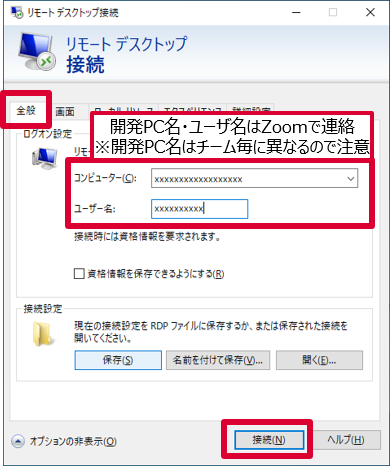
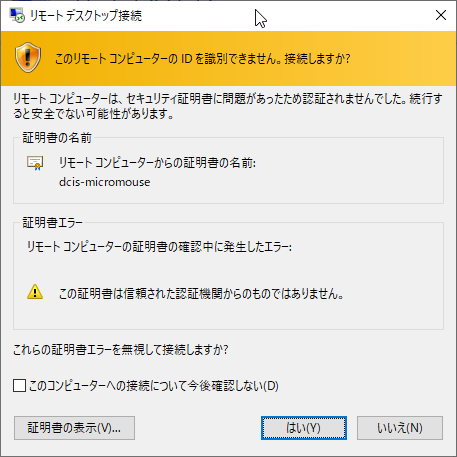
23夏をAzureで実施する向けに記述＆画像修正

diff --git a/doc/connection/connection.md b/doc/connection/connection.md
@@ -1,40 +1,12 @@
 # 接続手順書
 - [接続手順書](#接続手順書)
   - [開発用PCへ接続する](#開発用pcへ接続する)
-    - [証明書を設定する(windows)](#証明書を設定するwindows)
-    - [リモートデスクトップする(windows)](#リモートデスクトップするwindows)
-    - [証明書を設定する(mac)](#証明書を設定するmac)
-    - [リモートデスクトップする(mac)](#リモートデスクトップするmac)
   - [開発を始める](#開発を始める)
   - [開発用PC以外からプログラムや設計書を参照する(読み取り専用)](#開発用pc以外からプログラムや設計書を参照する読み取り専用)
 
 ## 開発用PCへ接続する
 <details>
 <summary>Windowsの人</summary>
-
-### 証明書を設定する(windows)
-* デンソークリエイト内にある開発用PCにアクセスするための証明書を皆さんのPCに登録します。
-
-1. 証明書をダウンロードします。  
-   __※証明書のダウンロードURLはZoomのチャットで連絡します。__
-1. ダウンロードしたファイルをダブルクリックして開きます。すると証明書の内容が表示されます。  
-   「証明書のインストール」をクリックします。  
-  ![証明書1](img/cert1.png)  
-1. 「次へ」をクリックします。  
-  ![証明書2](img/cert2.png)
-1. 「証明書をすべて次のストアに配置する」を選択し、「参照」をクリックします。  
-  ![証明書3](img/cert3.png)
-1. 「信頼されたルート証明機関」を選択し、「OK」をクリックします。  
-  ![証明書4](img/cert4.png)
-1. 「次へ」をクリックします。  
-  ![証明書5](img/cert5.png)
-1. 「完了」をクリックします。  
-  ![証明書6](img/cert6.png)
-1. 「OK」をクリックします。  
-  ![証明書7](img/cert7.png)
-  ![証明書8](img/cert8.png)
-
-### リモートデスクトップする(windows)
 
 1. 画面を共有しながら進めましょう。  
     接続に詰まった場合に画面を見せながら相談できます。
@@ -43,43 +15,28 @@
   ![リモートデスクトップ接続](img/remote.png)
 
 1. チームごとに、決められたコンピュータに対して接続します。  
-  まず、接続に必要な RD ゲートウェイ を設定します。  
-  「オプションの表示」をクリックします。  
-  ![リモートデスクトップ接続2](img/remote2.png)
-
-1. 「詳細設定」の「任意の場所から接続する」の枠の「設定」をクリックします。  
-   ![リモートデスクトップ接続2](img/remote3.png)
-
-1. 「次の RD ゲートウェイサーバー設定を使用する」にチェックを付け、  
-  「サーバー名」を以下の通り入力し、「OK」をクリックします。  
-    |項目|入力|
-    |-|-|
-    |サーバー名|__※サーバー名(=ゲートウェイ名)はZoomのチャットで連絡します。__|  
-
-    ![リモートデスクトップ接続2](img/remote4.png)
-
-1. 「全般」に戻り、  
-  「コンピューター」と「ユーザー名」を以下の通り入力し、「接続」をクリックします。  
+  「コンピューター」に以下アドレスを入力し、「接続」をクリックします。  
     |項目|入力|
     |-|-|
     |コンピューター|__※コンピューター名(=開発PC名)はZoomのチャットで連絡します。<br/>チーム毎に異なるので注意__|
-    |ユーザー名|__※ユーザ名はZoomのチャットで連絡します。__|  
 
-    ![リモートデスクトップ接続2](img/remote5.png)
+    ![リモートデスクトップ接続2](img/remote2.png)  
+    ![リモートデスクトップ接続3](img/remote3.png)  
 
 1. 以下ユーザー名とパスワードを入力してOKします。  
    もし自分のアカウント名がすでに入っている場合は、下のほうにある「その他」→「別のアカウントを使用する」を押してください。  
     |項目|入力|
     |-|-|
-    |ユーザー名|__※ユーザ名はZoomのチャットで連絡します。__|
-    |パスワード|__※パスワードはZoomのチャットで連絡します。__|  
+    |ユーザー名|intern|
+    |パスワード|intern#1|  
 
-    ![リモートデスクトップ接続3](img/remote6.png)  
-    ![リモートデスクトップ接続3](img/remote6-2.png)  
+    ![リモートデスクトップ接続4](img/remote4.png)  
+    ![リモートデスクトップ接続5](img/remote5.png)  
 
 2. これで開発用PCにログインできました。  
    接続の練習はここまでです。  
    リモートデスクトップを切断し、次の人に開発用PCに接続してもらいましょう。  
+   全員接続できたら一区切りです。雑談して待ちましょう。
 
    ![リモートデスクトップ接続4](img/remote7.png)
 
@@ -87,22 +44,6 @@
 <details>
 <summary>Macの人</summary>
 
-### 証明書を設定する(mac)
-* デンソークリエイト内にある開発用PCにアクセスするための証明書を皆さんのPCに登録します。
-
-1. 証明書をダウンロードします。  
-   __※証明書のダウンロードURLはZoomのチャットで連絡します。__
-1. ダウンロードしたファイルをダブルクリックして開きます。すると確認のダイアログが表示されるので、  
-    キーチェーンを「ログイン」にして「追加」をクリックします。  
-  ![証明書1](img/mac_cert1.png)  
-  もし以下のようなダイアログが出た場合は、  
-  各自のPCのログインユーザ名・パスワードを入力して「キーチェーンを変更」してください。  
-  ![証明書2](img/mac_cert2.png)
-1. 「キーチェーン」ウィンドウの「ログイン」（もしくは「システム」）内に、  
-    "DCLocalRootCA" が入っていれば完了です。  
-  ![証明書3](img/mac_cert3.png)
-
-### リモートデスクトップする(mac)
 1. 画面を共有しながら進めましょう。  
     接続に詰まった場合に画面を見せながら相談できます。
 
@@ -113,62 +54,37 @@
 1. 最初に聞かれる内容は「Not now」を選択します。  
   ![Macリモートデスクトップ接続2](img/mac_remote2.png)
 
-1. チームごとに、決められたコンピュータに対して接続するための設定をしていきます。  
+1. チームごとに、決められたコンピュータに接続します。  
   最初に、「Add PC」を押します。  
-  ![Macリモートデスクトップ接続3](img/mac_remote_g0.png)
+  ![Macリモートデスクトップ接続3](img/mac_remote3.png)
 
-1. 接続に必要な"Gateway"を設定します。  
-   "Gateway"の欄を開き、「Add Gateway...」をクリックします。  
-  ![Macリモートデスクトップ接続](img/mac_remote_g1.png)
-
-1. GatewayにアクセスするUserを設定します。  
-   "User account"の欄を開き、「Add User Account...」をクリックします。  
-  ![Macリモートデスクトップ接続](img/mac_remote_g2.png)
-
-1. UsernameとPassword、Friendly nameを以下の通り入力し、  
-   「Add」をクリックします。  
-    |項目|入力|
-    |-|-|
-    |Username|__※Username(=ユーザ名)はZoomのチャットで連絡します。__|
-    |Password|__※Password(=パスワード)はZoomのチャットで連絡します。__|
-    |Friendly name|dc intern|  
-
-    ![Macリモートデスクトップ接続](img/mac_remote_g3.png)
-
-1. Gatewayのダイアログに戻るので、それぞれ以下の通り入力し、  
-   「Add」をクリックします。  
-
-    |項目|入力|
-    |-|-|
-    |Gateway name|__※Gateway name(=ゲートウェイ名)はZoomのチャットで連絡します。__|
-    |Friendly name|dc intern|
-    |User account|dc intern|
-
-    ![Macリモートデスクトップ接続](img/mac_remote_g4.png)
-
-1. Add PCのダイアログに戻るので、それぞれ以下の通り入力し、  
-   「Add」をクリックします。  
-
+1. 出てきた画面の「PC name」に以下を入力し、Add」をクリックします。
     |項目|入力|
     |-|-|
     |PC name|__※PC name(=開発PC名)はZoomのチャットで連絡します。<br />チーム毎に異なるので注意__|
-    |User account|dc intern|
-    |Friendly name|dc intern|
-    |Gateway|dc intern|
 
-    ![Macリモートデスクトップ接続](img/mac_remote_g5.png)
+    ![Macリモートデスクトップ接続4](img/mac_remote4.png)
 
 1. 作成されたボタンをダブルクリックします。  
-  ![Macリモートデスクトップ接続](img/mac_remote_g6.png)
+  ![Macリモートデスクトップ接続](img/mac_remote5.png)
+
+1. ユーザー名とパスワードに以下を入れて「Continue」を押します。
+    |項目|入力|
+    |-|-|
+    |Username|intern|
+    |Password|intern#1|
+
+    ![Macリモートデスクトップ接続6](img/mac_remote6.png)
 
 1. 以下のようなメッセージが出た場合、「Continue」を押します。  
-  ![Macリモートデスクトップ接続](img/mac_remote_g7.png)  
-  ![Macリモートデスクトップ接続](img/mac_remote_g8.png)
+  ![Macリモートデスクトップ接続](img/mac_remote7.png)
 
 1. これで開発用PCにログインできました。  
    接続の練習はここまでです。  
    リモートデスクトップを切断し、次の人に開発用PCに接続してもらいましょう。  
-  ![Macリモートデスクトップ接続](img/mac_remote_g9.png)
+   全員接続できたら一区切りです。雑談して待ちましょう。
+
+  ![Macリモートデスクトップ接続](img/mac_remote8.png)
 </details>
 
 ## 開発を始める
